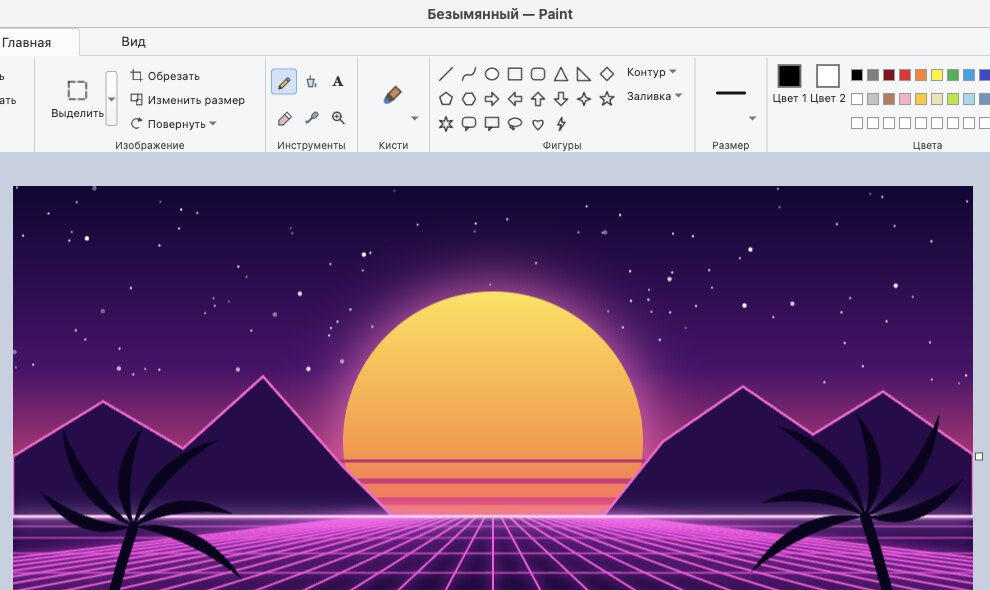
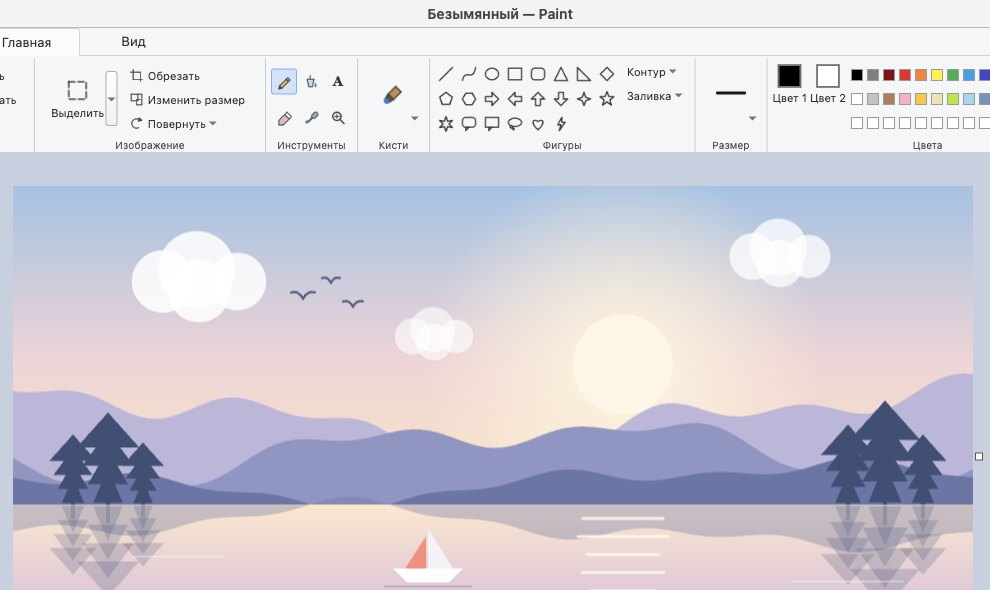
Hub: collage covers for Influence and Hexlume, calmer WinPaint cover, presentations card renamed

diff --git a/index.html b/index.html
@@ -951,7 +951,8 @@
           desc: '«Влияние» в браузере: стратегия о захвате территории. Боты, дуэли, карта дня.',
           url: 'https://nelkio.github.io/influence-web/',
           repo: 'https://github.com/NELKIO/influence-web',
-          cover: 'https://nelkio.github.io/influence-web/og.png',
+          cover: 'covers/influence.jpg',
+          pos: 'center top',
         },
         {
           title: 'Фудрадар',
@@ -959,20 +960,15 @@
           url: 'https://nelkio.github.io/RU-Fast-Food-Locator-Game/',
           repo: 'https://github.com/NELKIO/RU-Fast-Food-Locator-Game',
           cover: 'covers/fudradar.jpg',
-          pos: 'center top', // phones bleed off the bottom edge, so wide cards crop from below
+          pos: 'center top', // game collages: phones bleed off the bottom edge, so wide cards crop from below
         },
         {
           title: 'Hexlume',
           desc: 'Как сапёр, только на шестиугольниках: зажги все огоньки чистой логикой, без угадывания.',
           url: 'https://nelkio.github.io/hexceed-web/',
           repo: 'https://github.com/NELKIO/hexceed-web',
-          cover: 'https://nelkio.github.io/hexceed-web/og.jpg',
-        },
-        {
-          title: 'Библиотека материалов',
-          desc: 'Мои учебные презентации',
-          url: 'https://github.com/NELKIO/presentations',
-          cover: 'covers/materials.svg',
+          cover: 'covers/hexlume.jpg',
+          pos: 'center top',
         },
         {
           title: 'WinPaint',
@@ -981,6 +977,11 @@
           repo: 'https://github.com/NELKIO/WinPaint',
           cover: 'covers/winpaint.jpg',
           pos: 'center top', // keep the ribbon in view
+        },
+        {
+          title: 'Мои презентации',
+          url: 'https://github.com/NELKIO/presentations',
+          cover: 'covers/materials.svg',
         },
       ];
       const GITHUB = { title: 'GitHub', desc: 'Код и все проекты', url: 'https://github.com/NELKIO' };
@@ -1013,7 +1014,7 @@
 
       const esc = (s) => s.replace(/[&<>"]/g, (c) => ({ '&': '&amp;', '<': '&lt;', '>': '&gt;', '"': '&quot;' })[c]);
       const card = (p, alt, cover) => {
-        const inner = `${cover}<div class="body"><div><div class="title">${esc(p.title)}</div><div class="desc">${esc(p.desc)}</div></div><span class="go">${arrow}</span></div>`;
+        const inner = `${cover}<div class="body"><div><div class="title">${esc(p.title)}</div>${p.desc ? `<div class="desc">${esc(p.desc)}</div>` : ''}</div><span class="go">${arrow}</span></div>`;
         if (!p.repo) return `<a class="card${alt ? ' alt' : ''}" href="${esc(p.url)}">${inner}</a>`;
         // Links can't nest: the whole card is covered by one link (.hit), the small GitHub button sits above it.
         return `<div class="card">${inner}<a class="hit" href="${esc(p.url)}" aria-label="${esc(p.title)}"></a><a class="repo" href="${esc(p.repo)}" aria-label="${esc(p.title)}: код на GitHub">${githubMark}GitHub</a></div>`;
@@ -1066,8 +1067,8 @@
         <a href="https://nelkio.github.io/influence-web/">Influence Web</a> ·
         <a href="https://nelkio.github.io/RU-Fast-Food-Locator-Game/">Фудрадар</a> ·
         <a href="https://nelkio.github.io/hexceed-web/">Hexlume</a> ·
-        <a href="https://github.com/NELKIO/presentations">Библиотека материалов</a> ·
         <a href="https://nelkio.github.io/WinPaint/">WinPaint</a> ·
+        <a href="https://github.com/NELKIO/presentations">Мои презентации</a> ·
         <a href="https://github.com/NELKIO">GitHub</a> ·
         <a href="dano/dano-2025.pdf">Финал DANO’25</a> ·
         <a href="dano/dano-2024.pdf">Финал DANO’24</a>
